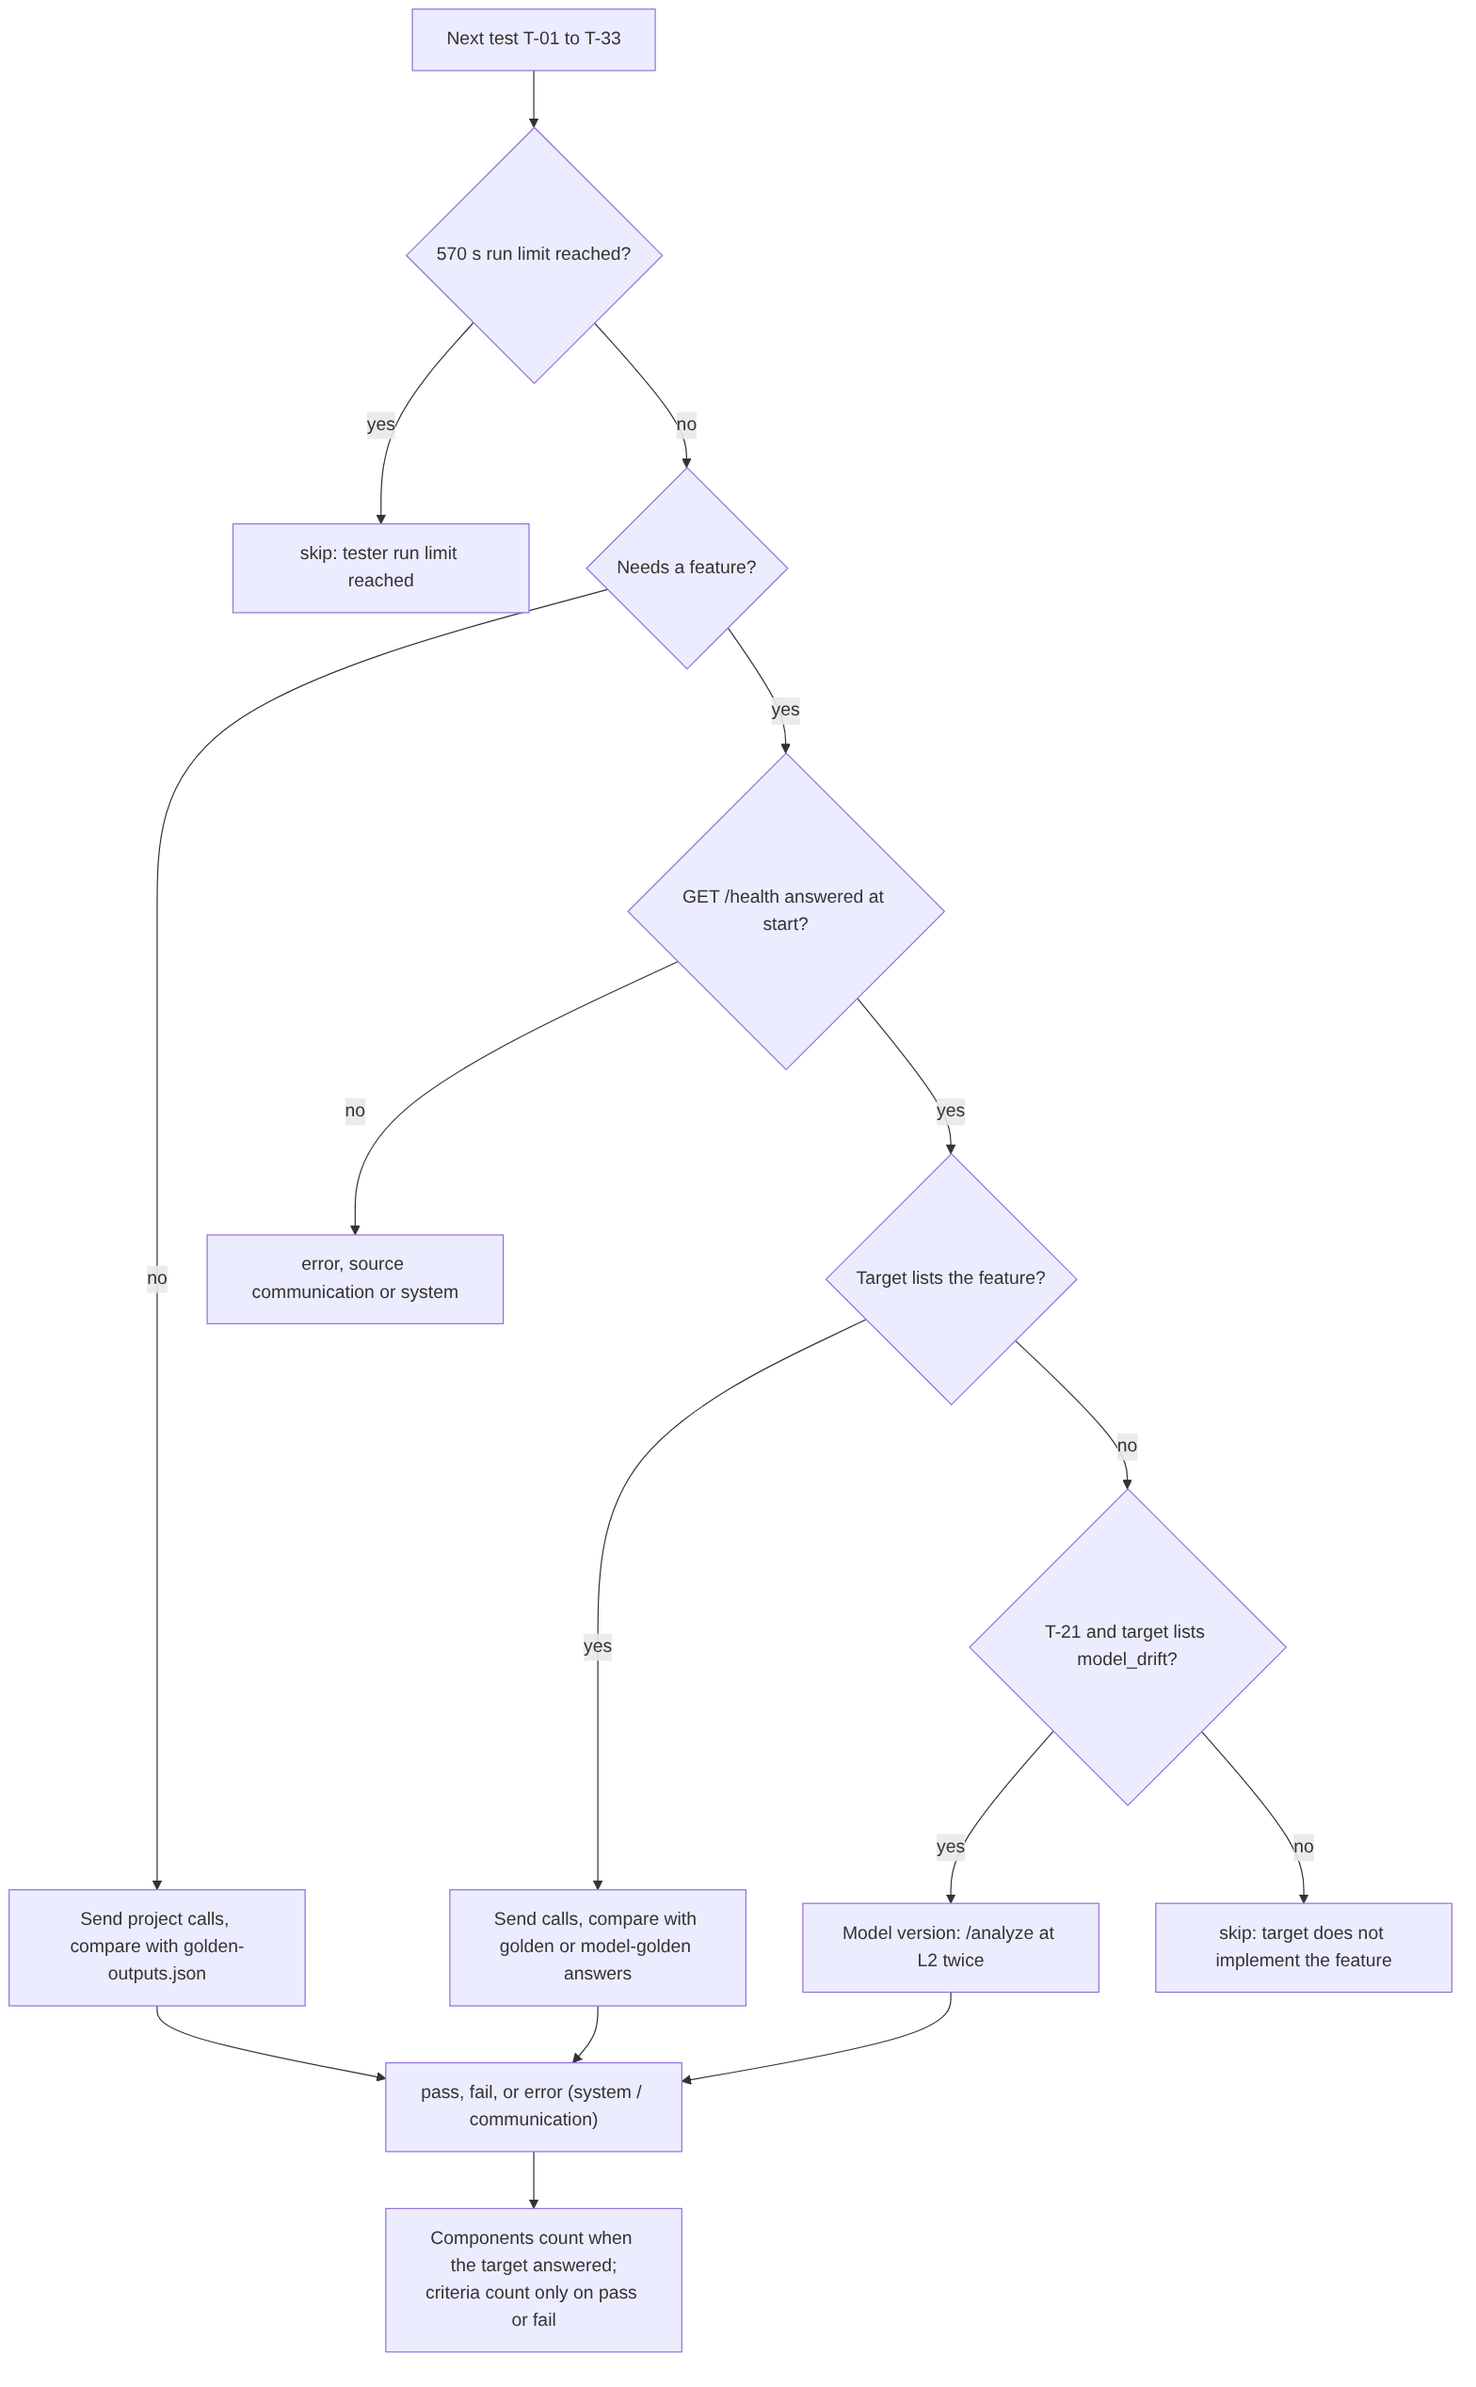
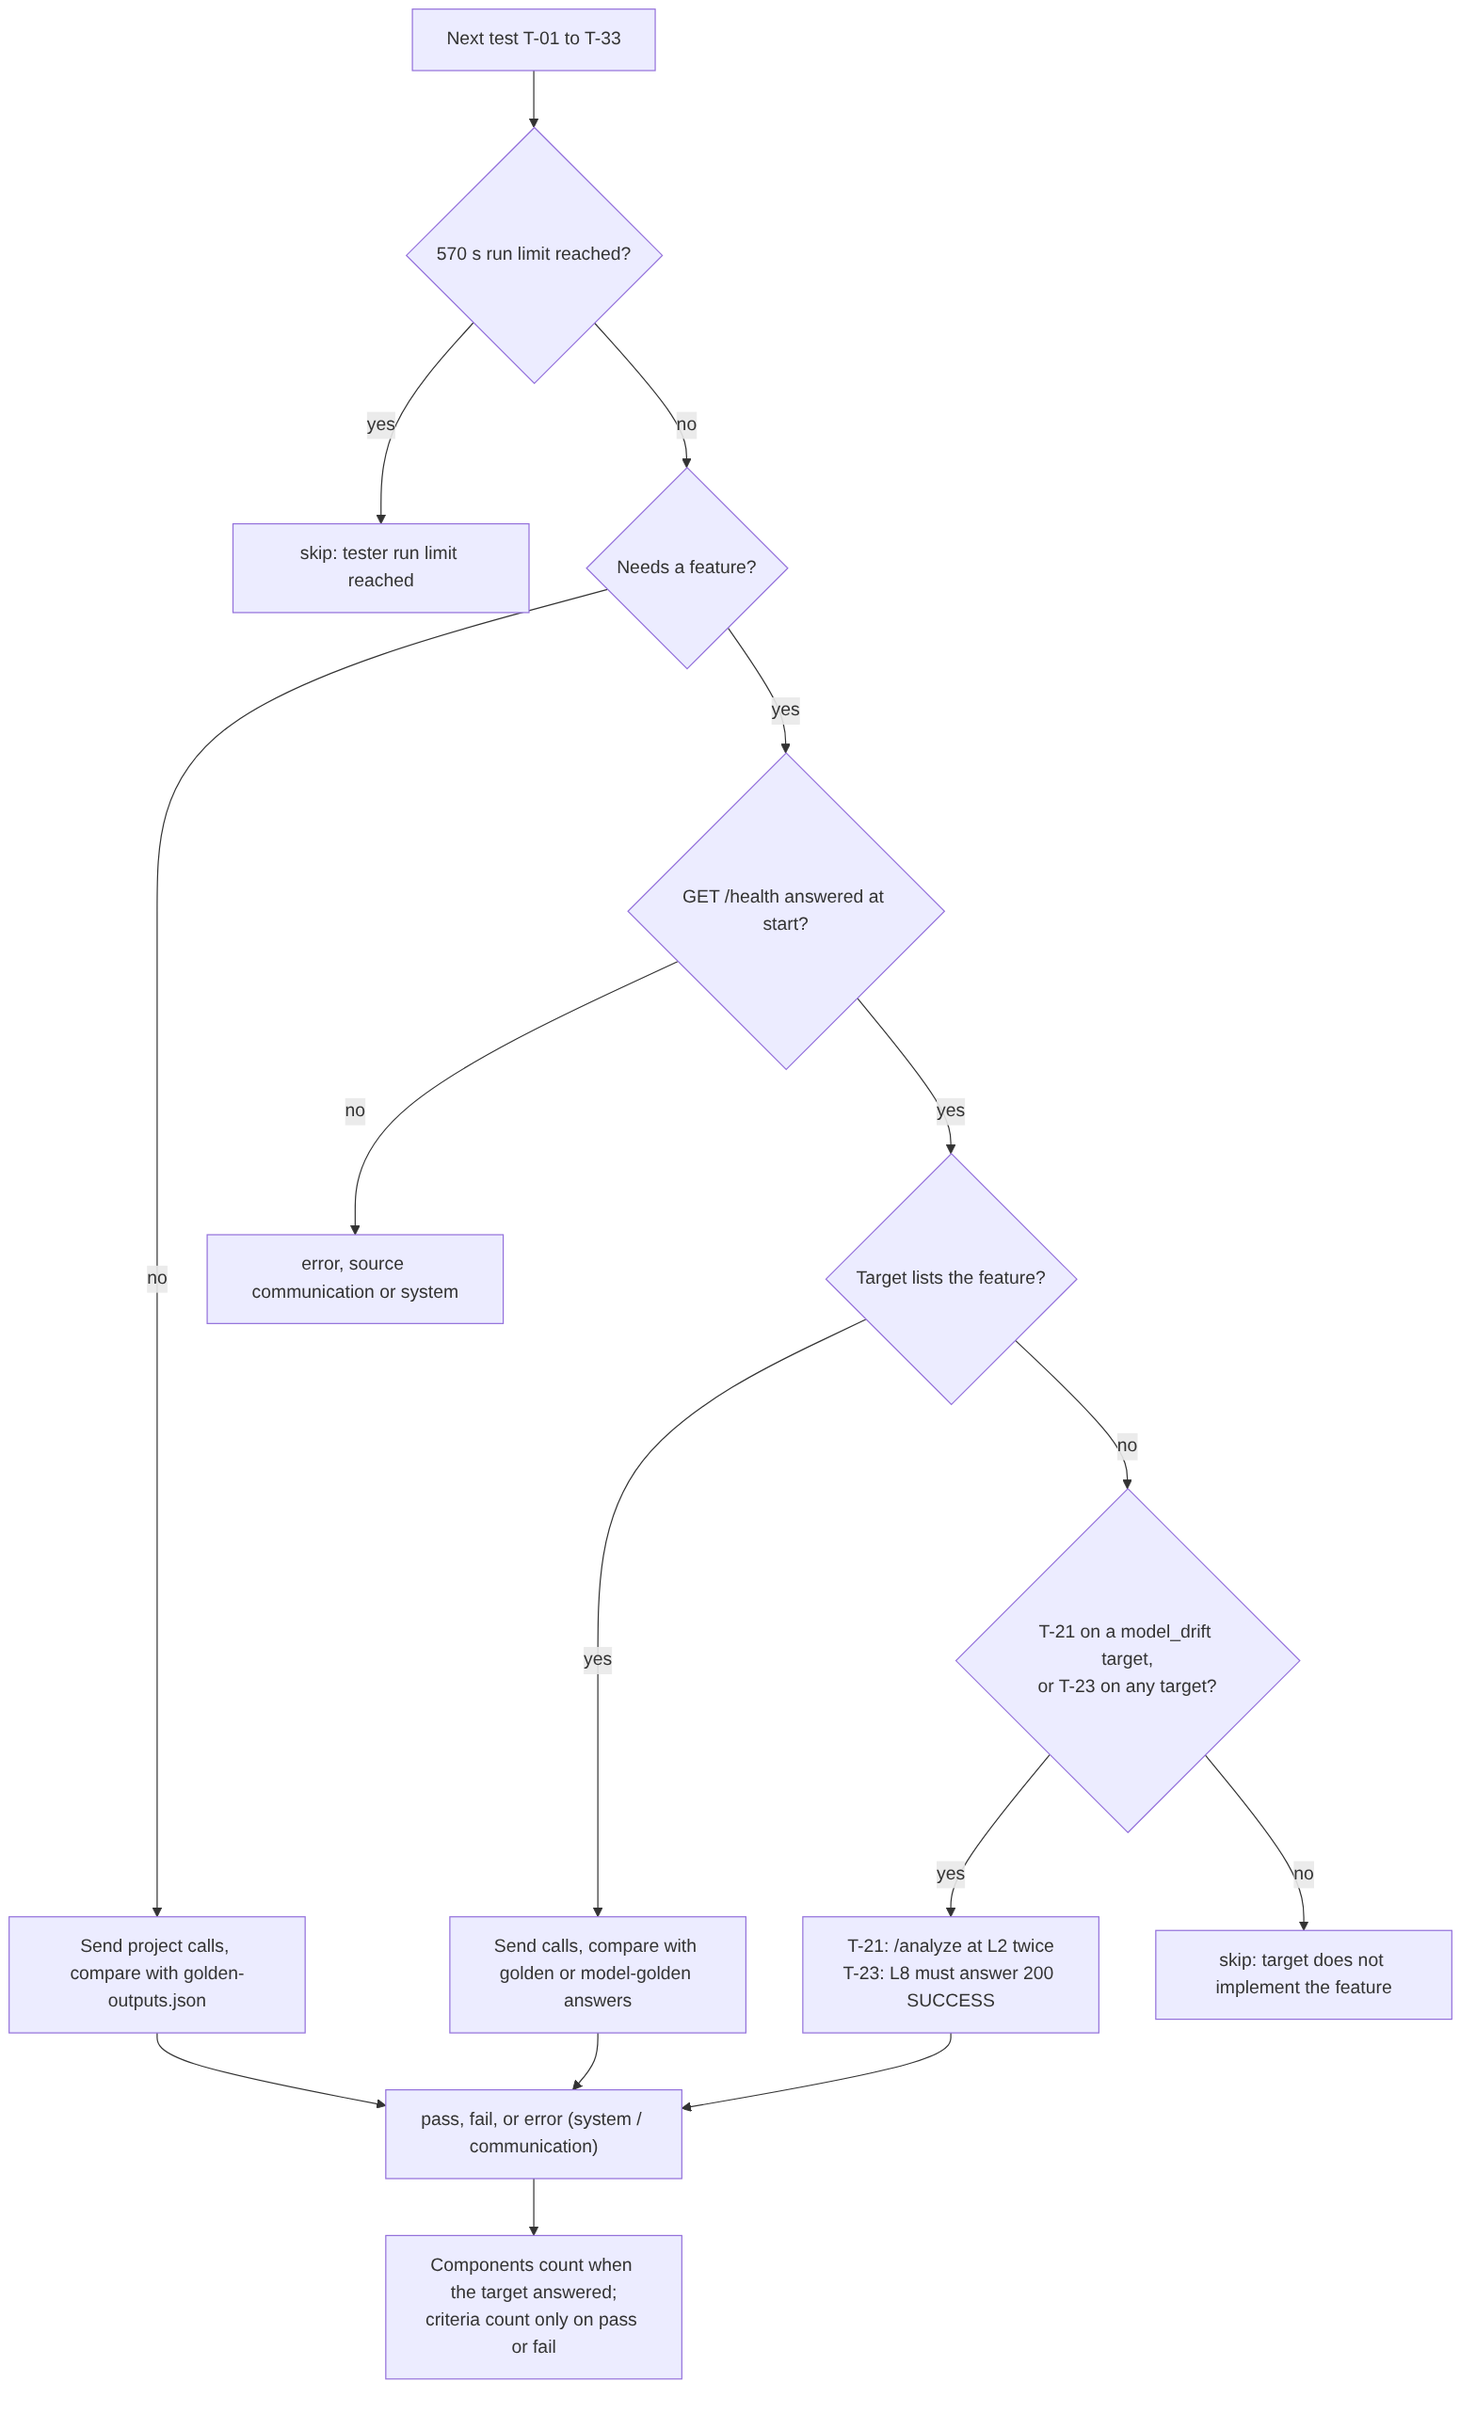
Run T-23 on every system, as the final contract 2.5.0 says (v0.5.1)
- Sync docs/contract/pod-contract.md with Team 15's contract-2.5.0 tag (ff79932).
- T-23 on a system without model_drift: POST /analyze for L8 must answer 200 SUCCESS.
- conftest mirrors the public model fixture so the in-process suite runs T-23 on
  our own system; expected criteria coverage there is now 9 of 10.
- docs/SYSTEM.md and the tester-outcome model updated; LIM-02 and LIM-08 aligned
  with the Phase 5 report. Version 0.5.1.

Claude-Session: https://claude.ai/code/session_01SHqMYQm2dVczXzsydzPs5s

diff --git a/doctracker/tester/suite.py b/doctracker/tester/suite.py
@@ -311,6 +311,14 @@ async def t23(ctx: Ctx) -> str:
     return 'L8 trap files (hang, raise, write) analyzed without execution; answer matches.'
 
 
+async def t23_any(ctx: Ctx) -> str:
+    """Contract 2.5.0 section 4: without model_drift, L8 must still be a 200 SUCCESS inside the call limit."""
+    body = await model_post(ctx, '/analyze', 'L8')
+    if body.get('status') != 'SUCCESS':
+        raise Fail(f"L8: status is {body.get('status')!r}, not SUCCESS")
+    return 'L8 trap files (hang, raise, write) analyzed and answered SUCCESS without execution.'
+
+
 async def t33(ctx: Ctx) -> str:
     body = await model_post(ctx, '/generate', 'L0-generate')
     files = body.get('files')
@@ -332,7 +340,8 @@ class TestCase:
     fn: TestFn | None
     skip_reason: str | None = None
     feature: str | None = None
-    fallback: tuple[str, TestFn] | None = None
+    # (feature, fn) run when the target lacks `feature`; a None feature means every system
+    fallback: tuple[str | None, TestFn] | None = None
 
 
 PIPELINE = ("C1", "C2", "C3", "C5")
@@ -362,7 +371,7 @@ TESTS: list[TestCase] = [
              fallback=("model_drift", t21_model)),
     TestCase("T-22", "Authorized and unauthorized review decisions", ("AC-05",), ("C7",), t22, feature="model_drift"),
     TestCase("T-23", "Read-only analysis, no repository code execution", ("AC-09",), ("C2",), t23,
-             feature="model_drift"),
+             feature="model_drift", fallback=(None, t23_any)),
 ]
 
 MODEL = ("C1", "C2", "C3", "C4", "C5")

diff --git a/tests/test_pod_compatibility.py b/tests/test_pod_compatibility.py
@@ -101,9 +101,25 @@ def test_prose_only_target_skips_every_model_test(monkeypatch):
     for i in range(18, 22):
         assert results[f'T-{i}'] == {'test_id': f'T-{i}', 'outcome': 'skip',
                                      'message': 'target does not implement prose_detector'}
-    for i in range(22, 34):
+    for i in [22] + list(range(24, 34)):
         assert results[f'T-{i}'] == {'test_id': f'T-{i}', 'outcome': 'skip',
                                      'message': 'target does not implement model_drift'}
+    assert results['T-23']['outcome'] == 'fail'  # runs on every system (2.5.0); the stub answers {}
+
+
+def test_t23_runs_without_model_drift(monkeypatch):
+    l8 = MODEL_CASES['L8']['request']['commit_id']
+    def handler(req):
+        if req.url.path.endswith('/health'):
+            return httpx.Response(200, json={'status': 'ok', 'tool_version': 'x', 'config_version': 'mapping-v1.1',
+                                            'features': ['prose_detector']})
+        if req.url.path.endswith('/analyze') and commit_of(req) == l8:
+            return httpx.Response(200, json={'status': 'SUCCESS'})
+        return base_reply(req)
+    monkeypatch.setattr(tester, 'TESTS', [t for t in tester.TESTS if t.test_id == 'T-23'])
+    _, report = run_mock(monkeypatch, handler)
+    assert report['results'][0]['outcome'] == 'pass'
+    assert report['coverage']['system']['covered'] == 1  # AC-09
 
 
 def commit_of(req):

diff --git a/tests/conftest.py b/tests/conftest.py
@@ -26,6 +26,12 @@ def pytest_sessionstart(session: pytest.Session) -> None:
         subprocess.run(["rm", "-rf", str(bare)], check=True)
     bare.parent.mkdir(parents=True, exist_ok=True)
     subprocess.run(["git", "clone", "-q", "--bare", str(work), str(bare)], check=True)
+    # Team 15's public model fixture (contract 2.5.0 section 3), mirrored so T-23 runs against L8 offline
+    model = GIT_BASE / "kaan-kanadasi" / "doc-tracker-model-fixtures.git"
+    if not model.exists():
+        model.parent.mkdir(parents=True, exist_ok=True)
+        subprocess.run(["git", "clone", "-q", "--bare",
+                        "https://github.com/kaan-kanadasi/doc-tracker-model-fixtures.git", str(model)], check=True)
 
 
 @pytest.fixture(autouse=True)

diff --git a/tests/test_api.py b/tests/test_api.py
@@ -156,7 +156,7 @@ def test_full_suite_against_in_process_system(monkeypatch: pytest.MonkeyPatch) -
     assert len(ids) == len(set(ids)) == 33
     failed = [r for r in report["results"] if r["outcome"] not in ("pass", "skip")]
     assert failed == []
-    assert report["coverage"]["system"] == {**report["coverage"]["system"], "covered": 8, "total": 10}
+    assert report["coverage"]["system"] == {**report["coverage"]["system"], "covered": 9, "total": 10}
     assert client.post("/tester/test/run", json={"session_id": sid}).status_code == 409
     assert client.get("/tester/test/report", params={"session_id": sid}).json() == report
     assert sid in system_module.sessions

diff --git a/doctracker/tester/app.py b/doctracker/tester/app.py
@@ -198,7 +198,7 @@ async def run(body: RunBody) -> Any:
                     continue
                 fn = case.fn
                 if case.feature and case.feature not in (features or set()):
-                    if case.fallback and case.fallback[0] in (features or set()):
+                    if case.fallback and (case.fallback[0] is None or case.fallback[0] in (features or set())):
                         fn = case.fallback[1]
                     else:
                         results.append({'test_id': current, 'outcome': 'skip',

diff --git a/doctracker/__init__.py b/doctracker/__init__.py
@@ -1,1 +1,1 @@
-__version__ = "0.5.0"
+__version__ = "0.5.1"

diff --git a/docs/contract/pod-contract.md b/docs/contract/pod-contract.md
@@ -38,7 +38,7 @@ one-session rule. Team 16's tester needs seven changes:
 - It runs T-24 to T-33 against `model-golden-outputs.json` as each group is published
   (sections 3 and 4).
 - It runs T-22 and T-23, and T-21's model version, against `model-golden-outputs.json`
-  on a system that lists `model_drift` (section 4).
+  on a system that lists `model_drift`, and T-23 on every other system too (section 4).
 - It counts a component only from tests the target answered, and a criterion only
   from tests that ended `pass` or `fail` (section 5).
 - It keeps to section 6's limits: 110 s for system setup, 15 s for the system's
@@ -188,7 +188,7 @@ T-01 to T-23 they are the lists Team 16's tester already uses.
 | T-20 | Code and documentation updated together | c7: `issues: []` | C4 | AC-03 | skip | runs |
 | T-21 | New findings start PENDING_REVIEW | the findings of T-18 and T-19; model version: L2, twice | C4 C5 | AC-04 | runs the model version with `model_drift`, skip otherwise | runs |
 | T-22 | Authorized and unauthorized review decisions | model fixture: L5 and L6 | C7 | AC-05 | runs | skip |
-| T-23 | Read-only analysis, no repository code execution | model fixture: L8 | C2 | AC-09 | runs | skip |
+| T-23 | Read-only analysis, no repository code execution | model fixture: L8 | C2 | AC-09 | runs | runs |
 | T-24 | `/analyze` at L0: `aligned: true`, three empty lists | model fixture | C1 C2 C3 C4 C5 | AC-03 | runs | skip |
 | T-25 | `/analyze` at L1: `aligned: true` | model fixture | C1 C2 C3 C4 C5 | AC-03 | runs | skip |
 | T-26 | `/analyze` at L2: one structural `ADDED` | model fixture | C1 C2 C3 C4 C5 | AC-02 | runs | skip |
@@ -201,8 +201,8 @@ T-01 to T-23 they are the lists Team 16's tester already uses.
 | T-33 | `/generate` at L0: `structural.json`, `behavioral.json` and `scope.json` byte-equal to the committed `/models` | model fixture | C1 C2 C4 | AC-10 | runs | skip |
 
 The "skip" cells in the last two columns are deviations 1 and 2: Team 15's system has no
-`prose_detector`, and Team 16's has no `model_drift`. T-22 and T-23 need `model_drift`,
-and T-21 runs on either feature.
+`prose_detector`, and Team 16's has no `model_drift`. T-22 needs `model_drift`, T-21 runs
+on either feature, and T-23 runs on every system.
 
 Rules for T-21, T-22 and T-23:
 
@@ -217,14 +217,18 @@ Rules for T-21, T-22 and T-23:
   ownership violation (the unauthorized change: a non-owner edits an owned path). Each
   answer is compared as T-24 to T-31 compare. Without `model_drift` it is `skip` with
   the message "target does not implement model_drift".
-- **T-23.** It needs `model_drift`. L8 must equal its expected answer (`aligned: true`,
-  three empty lists, `drift_error: null`), compared as T-24 to T-31 compare. In L8 the
-  owner adds `src/hangs.py` (its top level loops forever), `src/raises.py` (it raises at
+- **T-23.** It runs on every system: `POST /analyze` for L8, sent once. In L8 the owner
+  adds `src/hangs.py` (its top level loops forever), `src/raises.py` (it raises at
   import) and `src/writes.py` (it writes a file beside itself), and updates `/models` in
   the same commit, so the code would hang, fail or write a file if it were imported or
-  run. Without `model_drift` it is `skip` with the message "target does not implement
-  model_drift", until Team 16 publishes a case of their own. T-23 does not check the
-  "no credentials in logs" part of AC-09.
+  run. On a system that lists `model_drift`, L8 must equal its expected answer
+  (`aligned: true`, three empty lists, `drift_error: null`), compared as T-24 to T-31
+  compare. On a system that does not, the answer must be a 200 `AnalysisResult` with
+  `status: SUCCESS`; `drift` and `drift_error` are not compared there, and no file of
+  expected answers is needed. Either way a normal answer inside the 90 s call limit
+  shows the code was not run. When `/health` fails, T-23 is `error` like the other
+  tests that need a feature. T-23 does not check the "no credentials in logs" part of
+  AC-09.
 
 Rules for T-24 to T-33:
 

diff --git a/docs/SYSTEM.md b/docs/SYSTEM.md
@@ -1,7 +1,7 @@
-# Documentation Tracker: system as delivered (v0.5.0)
+# Documentation Tracker: system as delivered (v0.5.1)
 
 Team 16, Pod 15/16. Deployed at https://doc-tracker-team16.onrender.com (`/system`, `/tester`).
-Release: tag `v0.5.0` (commit 35e875c). Pod specification: [contract 2.5.0](contract/pod-contract.md),
+Release: tag `v0.5.1` (v0.5.0 plus the final contract 2.5.0 rule for T-23). Pod specification: [contract 2.5.0](contract/pod-contract.md),
 [v1.1 SPEC](contract/spec-v1.1.md), [mapping-v1.1](contract/mapping-v1.1.yaml).
 
 ## 1. What the system does
@@ -163,8 +163,8 @@ flowchart TD
   Health -->|no| ErrHealth["error, source communication or system"]
   Health -->|yes| Has{"Target lists the feature?"}
   Has -->|yes| Run2["Send calls, compare with golden or model-golden answers"]
-  Has -->|no| Fallback{"T-21 and target lists model_drift?"}
-  Fallback -->|yes| L2["Model version: /analyze at L2 twice"]
+  Has -->|no| Fallback{"T-21 on a model_drift target,<br/>or T-23 on any target?"}
+  Fallback -->|yes| L2["T-21: /analyze at L2 twice<br/>T-23: L8 must answer 200 SUCCESS"]
   Fallback -->|no| SkipFeat["skip: target does not implement the feature"]
   Run --> Outcome["pass, fail, or error (system / communication)"]
   Run2 --> Outcome
@@ -172,8 +172,9 @@ flowchart TD
   Outcome --> Cover["Components count when the target answered;<br/>criteria count only on pass or fail"]
 ```
 
-T-18 to T-21 need `prose_detector`; T-22 to T-33 need `model_drift`. On our system the
-tester therefore runs 21 tests and skips 12; on Team 15's system it runs 30 and skips 3.
+T-18 to T-21 need `prose_detector`; T-22 and T-24 to T-33 need `model_drift`; T-23 runs on
+every system (on a system without `model_drift`, L8 must answer 200 SUCCESS). On our system
+the tester therefore runs 22 tests and skips 11; on Team 15's system it runs 30 and skips 3.
 
 ## 4. Sessions, storage and observability
 
@@ -193,12 +194,12 @@ tester therefore runs 21 tests and skips 12; on Team 15's system it runs 30 and 
 | ID | Limitation | Affects |
 |---|---|---|
 | LIM-01 | No authorized review workflow (C7); findings stay PENDING_REVIEW | REQ-03, AC-05 |
-| LIM-02 | No `model_drift`: T-22 to T-33 skip on this system, so the pod suite covers 8 of 10 criteria (not AC-05, AC-09) | REQ-03, REQ-06 |
+| LIM-02 | No `model_drift`: T-22 and T-24 to T-33 skip on this system, so the pod suite covers 9 of 10 criteria (not AC-05) | REQ-03 |
 | LIM-03 | Saved results live on the container disk and are lost on redeploy | REQ-04, AC-06 |
 | LIM-04 | Free Render instance sleeps after 15 idle minutes; first request can take about 50 s | all |
 | LIM-05 | Explicit mappings only; unmapped implementation files get no findings; Layer 2 is Python only | REQ-02 |
 | LIM-06 | One test session at a time (409 for up to 720 s) | testing interface |
 | LIM-07 | Public repositories only; 2000 changed files; 1 MB per mapped file; 60 s per git command | REQ-01, REQ-05 |
-| LIM-08 | CI's deployed-suite job targets doc-tracker-5t4s until the DEPLOY_BASE_URL variable is changed | release checks |
+| LIM-08 | Saved results and test sessions are lost when Render replaces the free instance; a second Render service (doc-tracker-5t4s) also runs v0.5.x but is not the registered URL | REQ-04, release checks |
 
 The local pytest suite assumes Linux paths (`tests/conftest.py`); CI runs it on Ubuntu.
